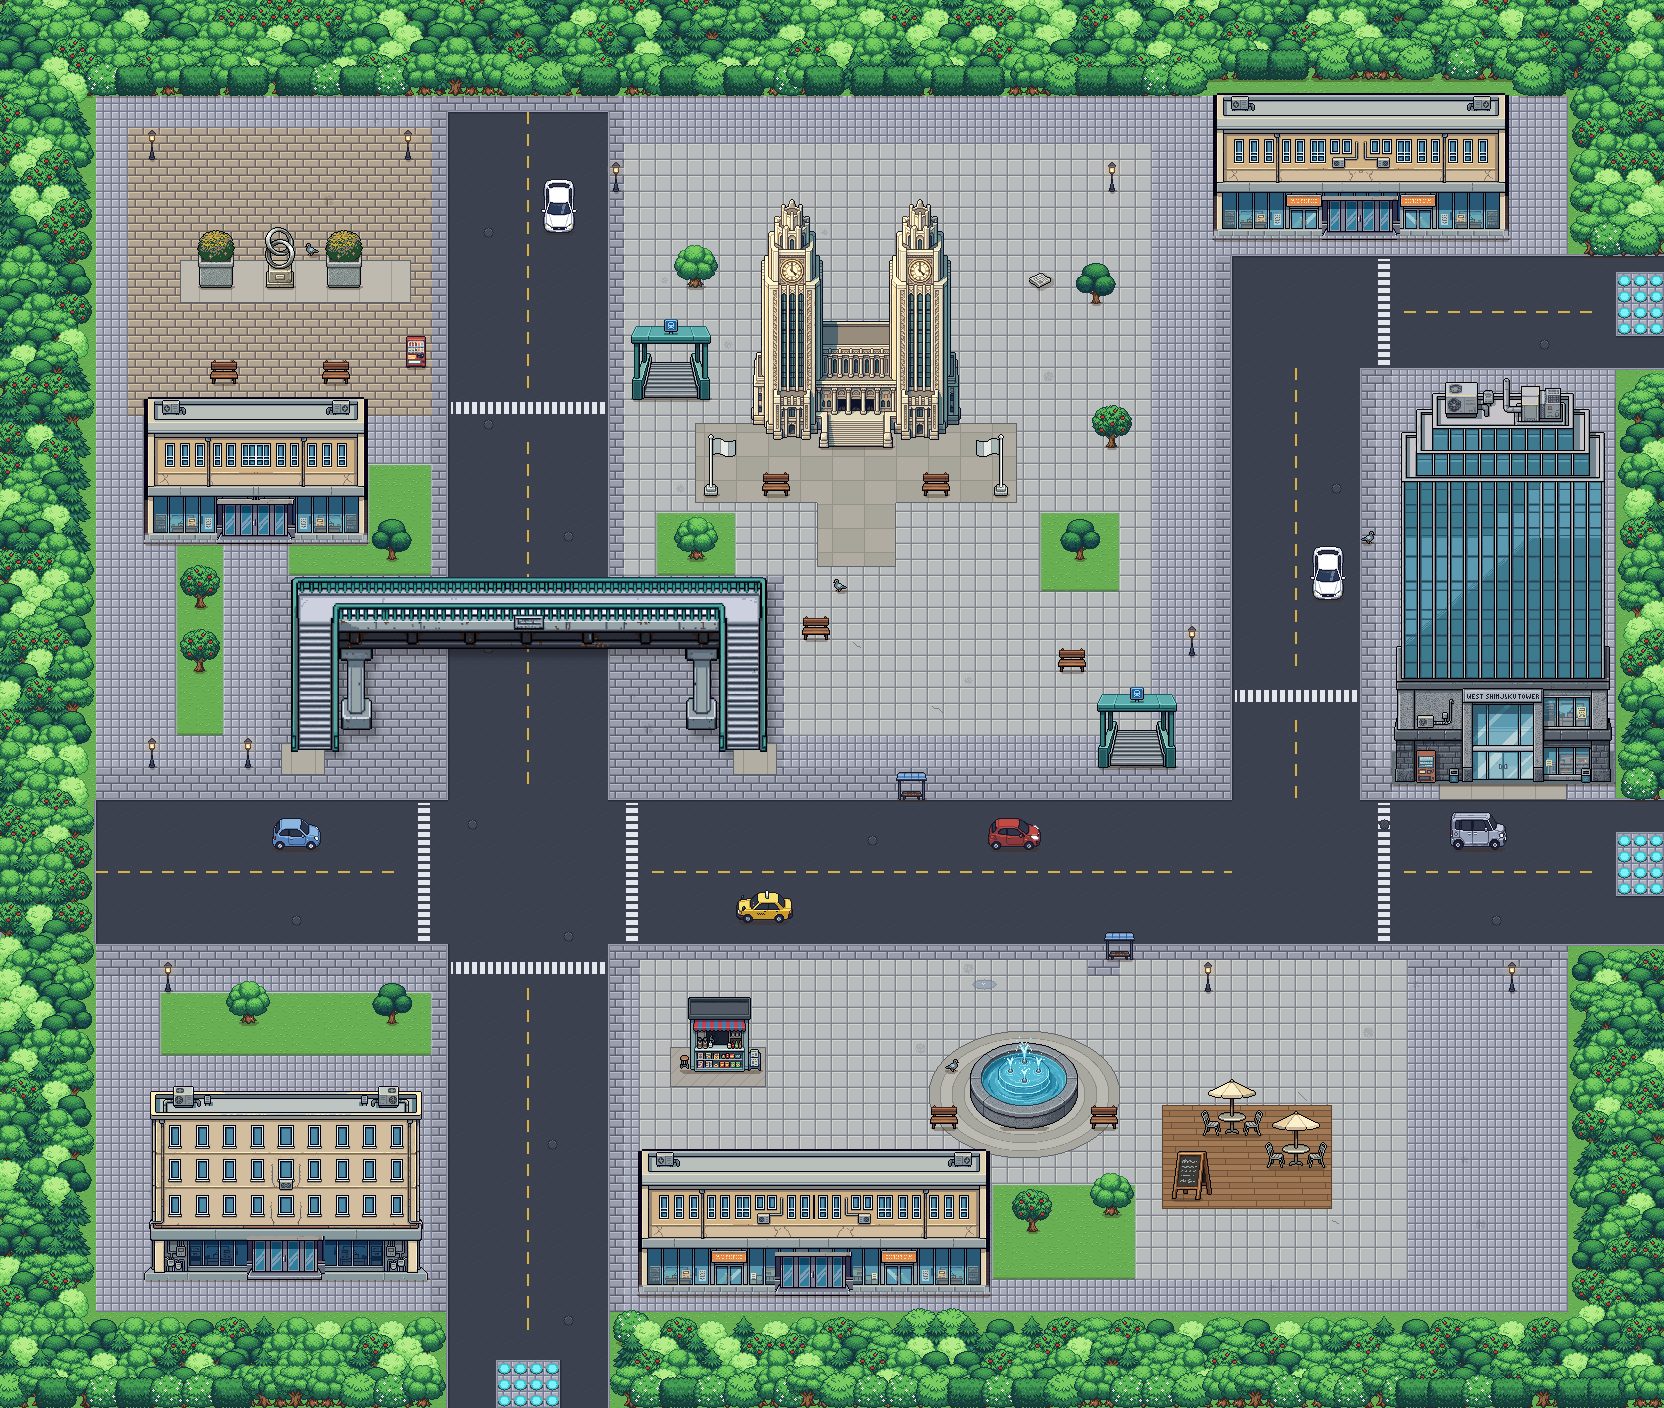
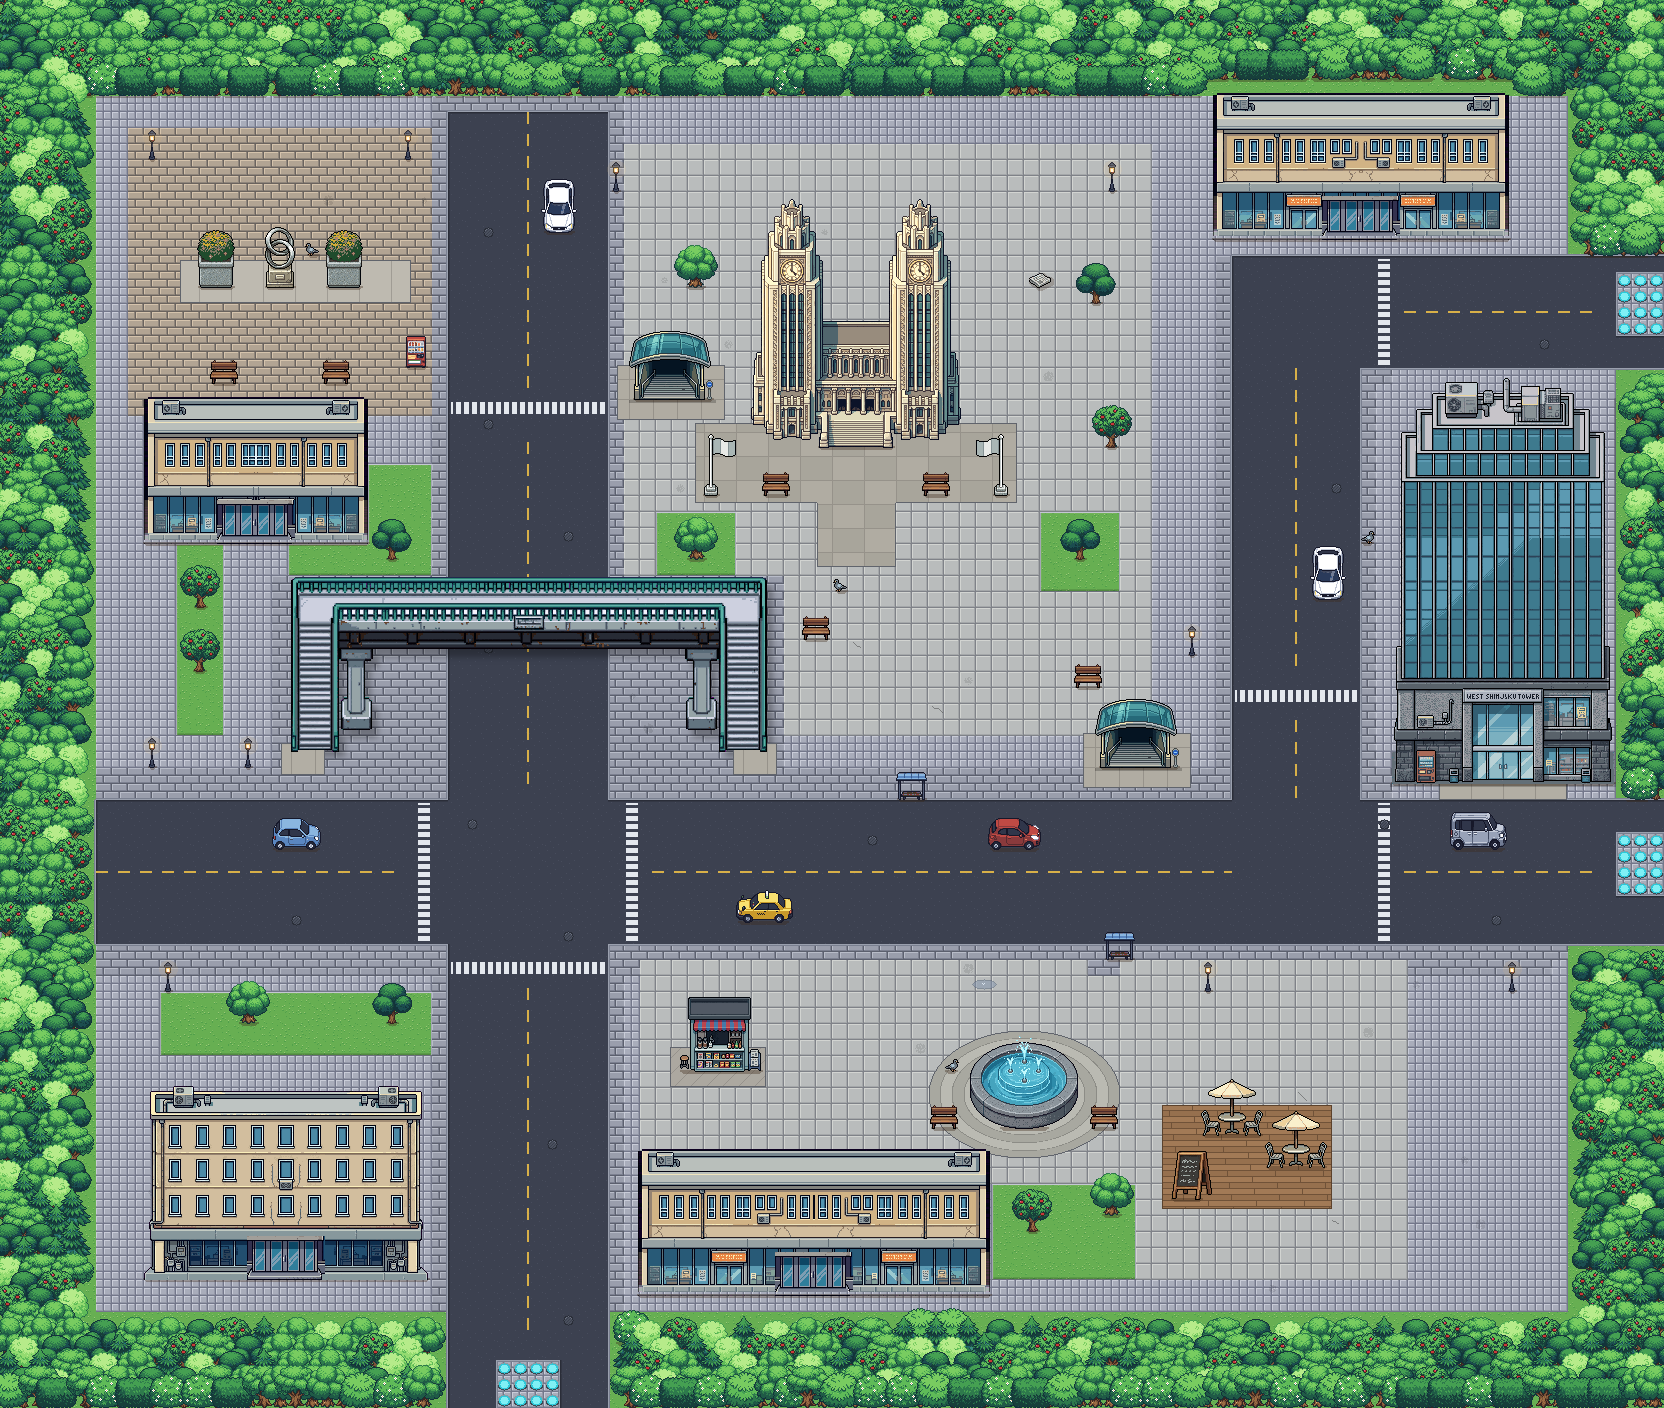
Karte 39: neue U-Bahn-Eingaenge (PixelLab k39_ubahn_b), Varianten A und B mit Granitflaeche und Zugang
Claude-Session: https://claude.ai/code/session_01SaoYHKhnro4LFcPJqjaPsq

Changed region(s): [[0.625, 0.4375, 0.7188, 0.5625], [0.375, 0.2188, 0.4375, 0.3125]]

diff --git a/tools/pixellab_objekte.py b/tools/pixellab_objekte.py
@@ -2126,6 +2126,19 @@ OBJEKTGRUPPEN_K21 = {   # Karte 21 (Digi-Egg Valley), Stil wie Karte 20 / Karte 
         'windows, each of the two towers topped with a clock, a lower glass-fronted lobby wing connecting them with wide '
         'entrance stairs, seen from the front and slightly above, fully in frame, ' + FR14,
     ]},
+    'k39_ubahn_b': {'size': 96, 'freie_farben': True, 'items': [
+        'Tokyo subway station entrance seen from the front and slightly above: a modern curved glass canopy roof on a '
+        'slim steel frame over a wide grey staircase going down into the ground, low stainless steel railings on both '
+        'sides, a small round blue station sign on a short post beside it, ' + FR14,
+        'open subway stairwell entrance in a plaza seen from the front and slightly above: a rectangular opening with '
+        'grey steps going down, polished stainless steel railings around three sides, open at the front, a tall slim '
+        'sign pillar with a blue light box next to it, ' + FR14,
+        'small modern metro entrance pavilion: a flat dark grey roof slab on glass walls, an open front with escalator '
+        'and stairs leading down, a lit blue sign above the opening, seen from the front and slightly above, ' + FR14,
+        'Japanese underground station entrance with a light concrete frame and a teal metal roof, stairs going down '
+        'between low granite walls with handrails, a small station name board on top, seen from the front and slightly '
+        'above, ' + FR14,
+    ]},
     'k39_ubahn': {'size': 96, 'freie_farben': True, 'items': [
         'small covered Tokyo subway station entrance: a flat teal metal canopy roof on four slim pillars with a small blue '
         'subway sign on top, grey stairs going down into the ground underneath, glass side panels, open at the front, '

diff --git a/tools/karte39_bauen.py b/tools/karte39_bauen.py
@@ -284,6 +284,18 @@ def plaetze_boden(a, kl, objs):
         a[sm] = (a[sm] * 0.8).astype(np.uint8)
         rs_ = (xx >= x1) & (xx < x1 + 5) & (yy >= o['y'] + bb_[1] + 20) & (yy <= fuss) & erlaubt   # Schatten rechts
         a[rs_] = (a[rs_] * 0.82).astype(np.uint8)
+    for o in box('ubahn'):                                        # U-Bahn-Eingang: Granitflaeche + Zugang vor der Oeffnung
+        al = np.array(Image.open(os.path.join(OBJ, o['datei'])).convert('RGBA'))[..., 3] > 0
+        bb_ = Image.fromarray(al.astype(np.uint8) * 255).getbbox()
+        x0, x1 = o['x'] + bb_[0], o['x'] + bb_[2]
+        fuss = o['y'] + o['fuss']
+        m = (xx >= x0 - 12) & (xx < x1 + 12) & (yy >= o['y'] + bb_[1] + (bb_[3] - bb_[1]) // 2) & (yy <= fuss + 20)
+        m &= erlaubt
+        a[m] = (176, 172, 162)
+        a[m & (((xx - x0) % 24 == 0) | ((yy - fuss) % 20 == 0))] = (150, 146, 138)
+        kante(m)
+        sm = (xx >= x0) & (xx < x1 + 3) & (yy > fuss) & (yy <= fuss + 3) & erlaubt
+        a[sm] = (a[sm] * 0.78).astype(np.uint8)
     for o in box('k38/kiosk'):                                    # Pflasterflaeche am Kiosk
         m = (xx >= o['x'] - 10) & (xx < o['x'] + 86) & (yy >= o['y'] + o['fuss'] - 24) & (yy < o['y'] + o['fuss'] + 16)
         m &= erlaubt

diff --git a/tools/karte39_objekte.py b/tools/karte39_objekte.py
@@ -225,7 +225,7 @@ def main():
     setze('gross/bruecke', BRUECKE[0] + OFF, (BRUECKE[1] + P) * T + T - 1, {'schattenlos': True}, art='gebaeude',
           pruefen=False)
     for (cx, fy) in UBAHN:
-        setze('ubahn/00', cx + OFF, (fy + P) * T + T - 1, {}, art='gebaeude')   # ueberdachter Eingang, vorne offen
+        setze({'a': 'ubahn_b/00', 'b': 'ubahn_b/01'}.get(os.environ.get('UBAHN', 'a'), 'ubahn_b/00'), cx + OFF, (fy + P) * T + T - 1, {}, art='gebaeude')   # ueberdachter Eingang, vorne offen
     # ---------------------------------------------------------------- Baeume mittig auf Gruenflaechen, Moebel sparsam
     for i, (tx, ty) in enumerate(BAEUME):
         kachel(STADTBAUM[i % len(STADTBAUM)], tx + P, ty + P, {'anim': 'baum'}, i % 2 == 1, klassen='gkqbn')
